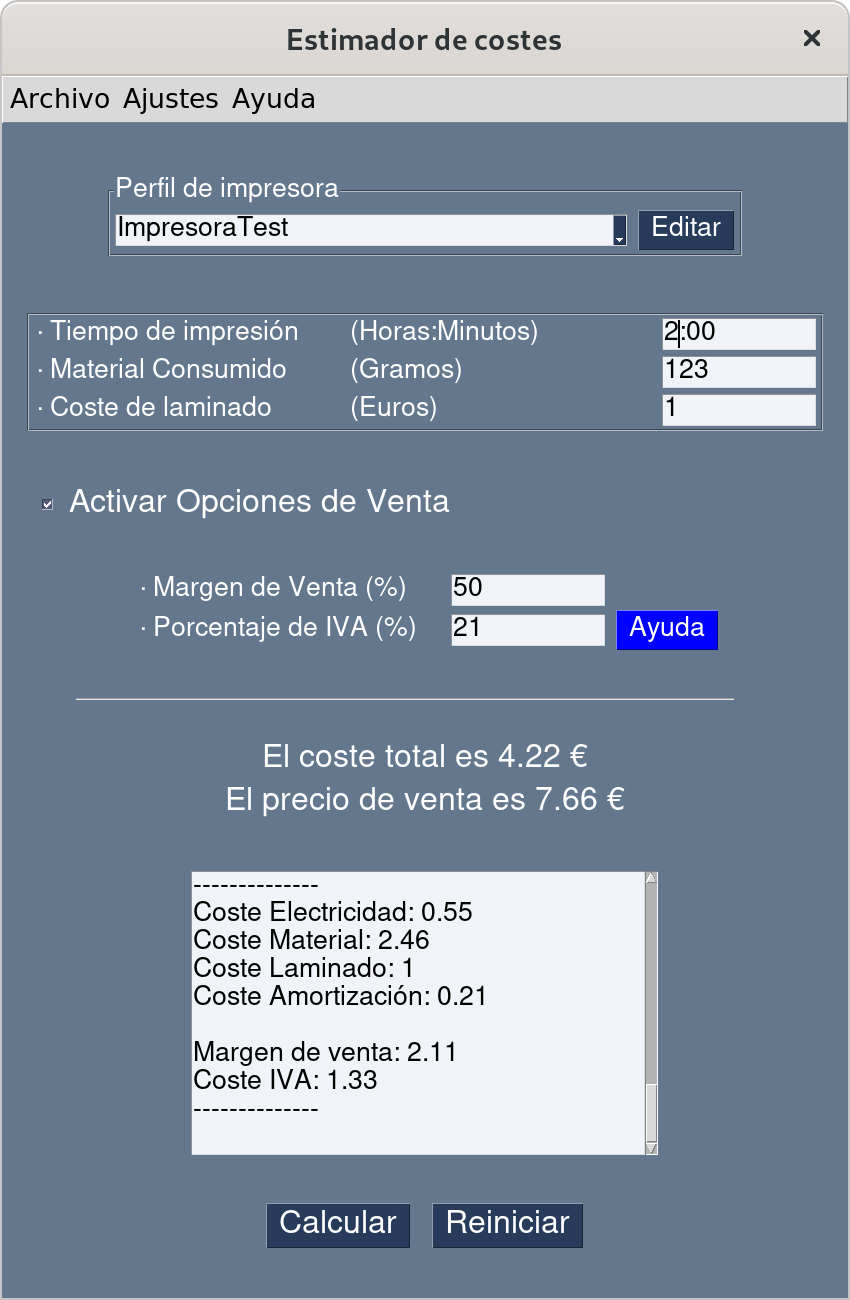
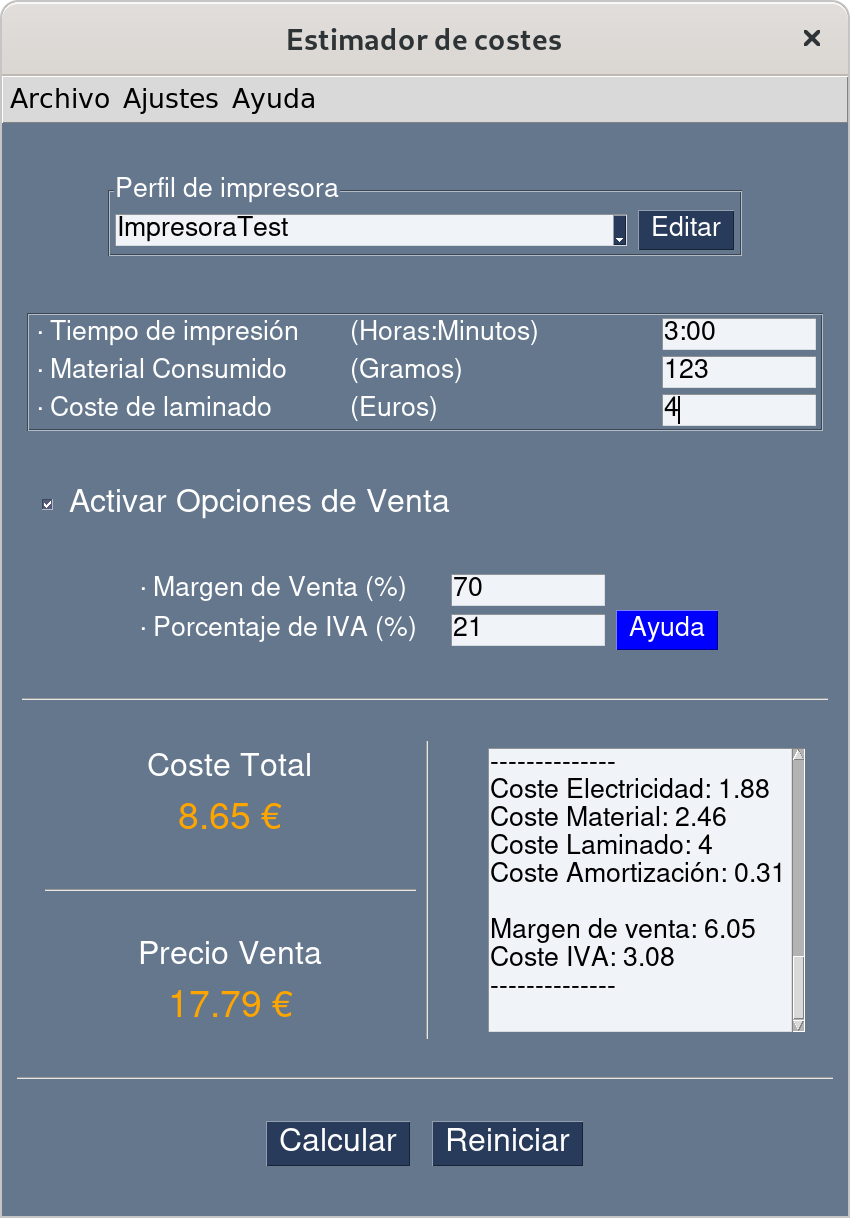
V0.3-RC1 DPI fixed

diff --git a/src/gui.py b/src/gui.py
@@ -10,7 +10,7 @@ from src.db import CreateCon, SqlConnection, GetThings, PrepareCon
 
 
 menu_def = [['Archivo', ['Salir']],['Ajustes', ['Opciones']],['Ayuda', ['Acerca de...']]]
-commonParams = [(20, 1), (10, 1), ("Helvetica", 12), (38, 1),(20,1)]
+commonParams = [(20, 1), (10, 1), ("Helvetica", 12), (38, 1),(17,1),("Helvetica", 14)]
 electricityCost = 0
 materialCost = 0
 ivaTax = 0
@@ -34,8 +34,8 @@ def Reset(window, layout):
     for element in range(1, 5):
         window[f"-INaccess{element}{2 if layout == 2 else 1}-"].update("")
     if layout ==2:
-        window[f"-Text1-"].update("Coste total ----> 0 €")
-        window[f"-Text2-"].update("Precio venta --> 0 €")
+        window[f"-Text1-"].update("0 €")
+        window[f"-Text2-"].update("0 €")
 
 def IntroDB():
 	if exists("db/MainPrinter.db"):
@@ -121,10 +121,16 @@ def MainGui():
         [sg.HorizontalSeparator()],
         [sg.Text("")],
         [sg.Column([
-        	[sg.Text("Coste total ----> 0 €", key="-Text1-", size=commonParams[4],
-                 	font=commonParams[2], justification="left")],
-        	[sg.Text(f"Precio venta --> 0 €", key="-Text2-",
-                 	size=commonParams[4], font=commonParams[2], justification="left")]],vertical_alignment='left', justification='left'),sg.VerticalSeparator(pad=((20,75),(0,0))), sg.Column([[sg.Multiline(reroute_stderr=False,autoscroll=True,size=(20,10),key="-OUTPUTPRINT-",reroute_stdout=True, disabled=True)]], justification="right", vertical_alignment="center")],
+        	[sg.Column([[sg.Text("Coste Total", size=commonParams[4],justification="center",font=commonParams[2])]], justification="center")],
+        	[sg.Column([[sg.Text("0 €",text_color="orange", key="-Text1-", size=commonParams[4],
+                 	font=commonParams[5], justification="center")]], justification="center")],
+                [sg.Text("")],
+        	[sg.HorizontalSeparator()],
+        	[sg.Text("")],
+                [sg.Column([[sg.Text("Precio Venta", size=commonParams[4],justification="center",font=commonParams[2])]], justification="center")],
+        	[sg.Column([[sg.Text("0 €",text_color="orange", key="-Text2-", size=commonParams[4],
+                 	font=commonParams[5], justification="center")]], justification="center")]]),
+        	sg.VerticalSeparator(pad=((0,50),(0,0))), 								  sg.Column([[sg.Multiline(reroute_stderr=False,autoscroll=True,size=(20,10),key="-OUTPUTPRINT-",reroute_stdout=True, disabled=True)]], justification="center", vertical_alignment="center")],
         [sg.Text("")],
         [sg.HorizontalSeparator(pad=((0,0), (0,0)))],
         [sg.Text("")],
@@ -183,7 +189,6 @@ def MainGui():
 	    '''
             badInputs = []
             checkTime = TimeValidation(values[f"-INaccess1{layout}-"])
-            print(checkTime)
             if checkTime==False:
             	badInputs.append("Tiempo")
             if MainValidation(values[f"-INaccess2{layout}-"])==False:
@@ -234,8 +239,8 @@ def MainGui():
             print(f"Margen de venta: {marginCostPrint}\nCoste IVA: {ivaCostPrint}\n--------------")
 	
 
-            window["-Text1-"].update(f"Coste total ----> {totalCost} €")
-            window["-Text2-"].update(f"Precio venta --> {salesCost} €")
+            window["-Text1-"].update(f"{totalCost} €")
+            window["-Text2-"].update(f"{salesCost} €")
 
 
             '''
